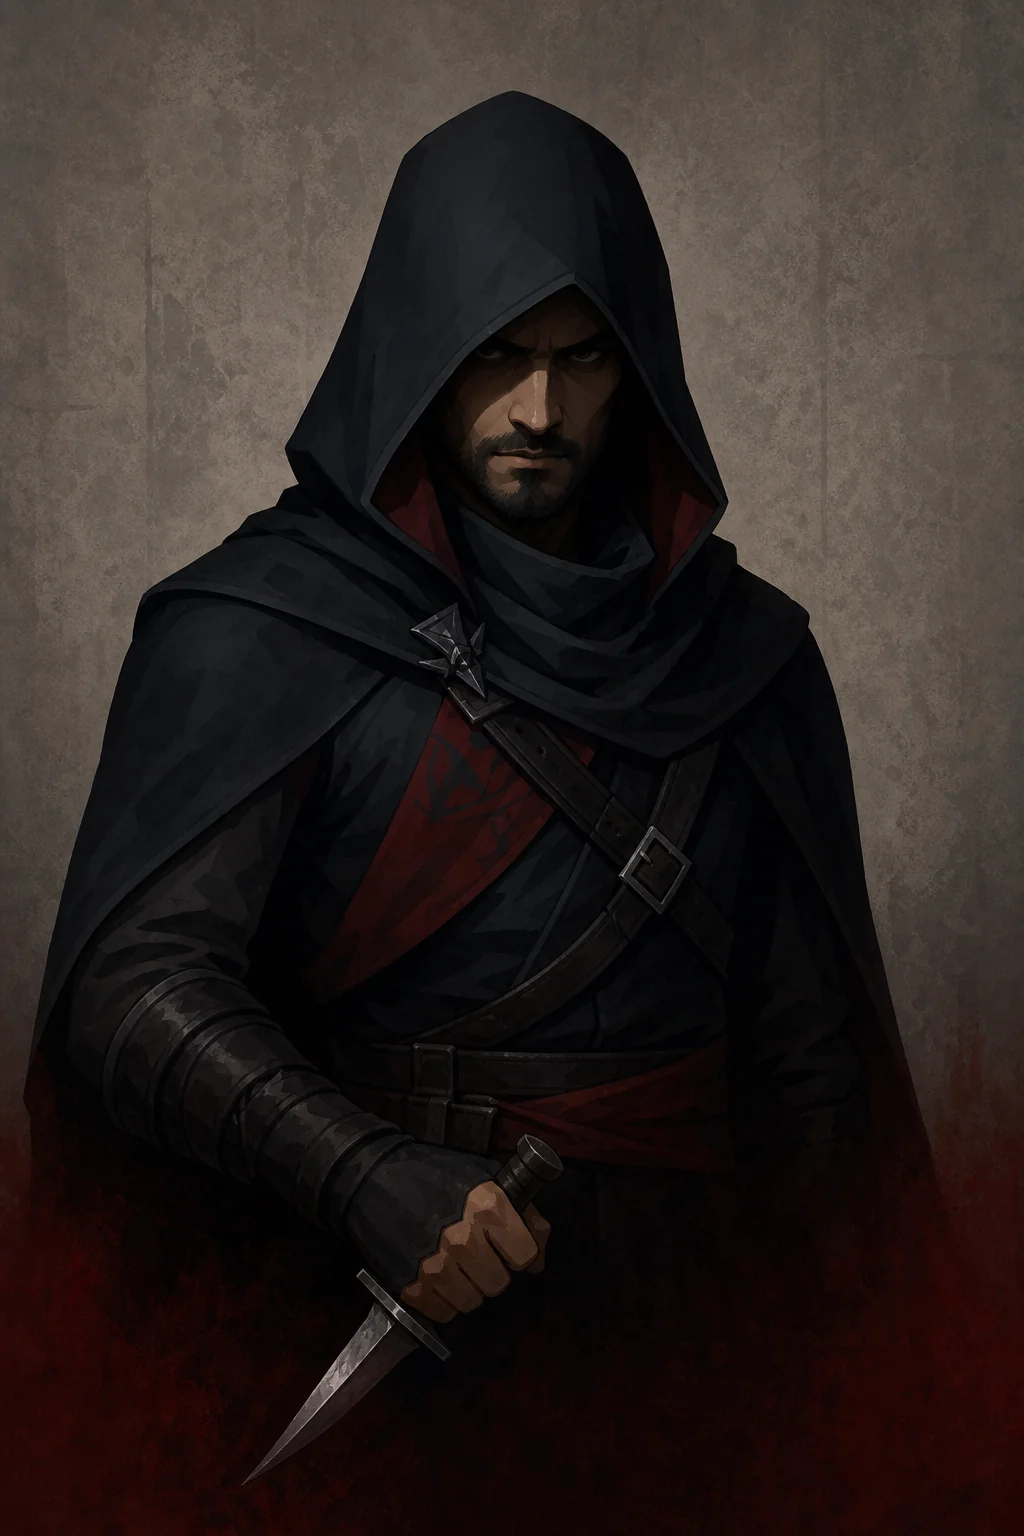
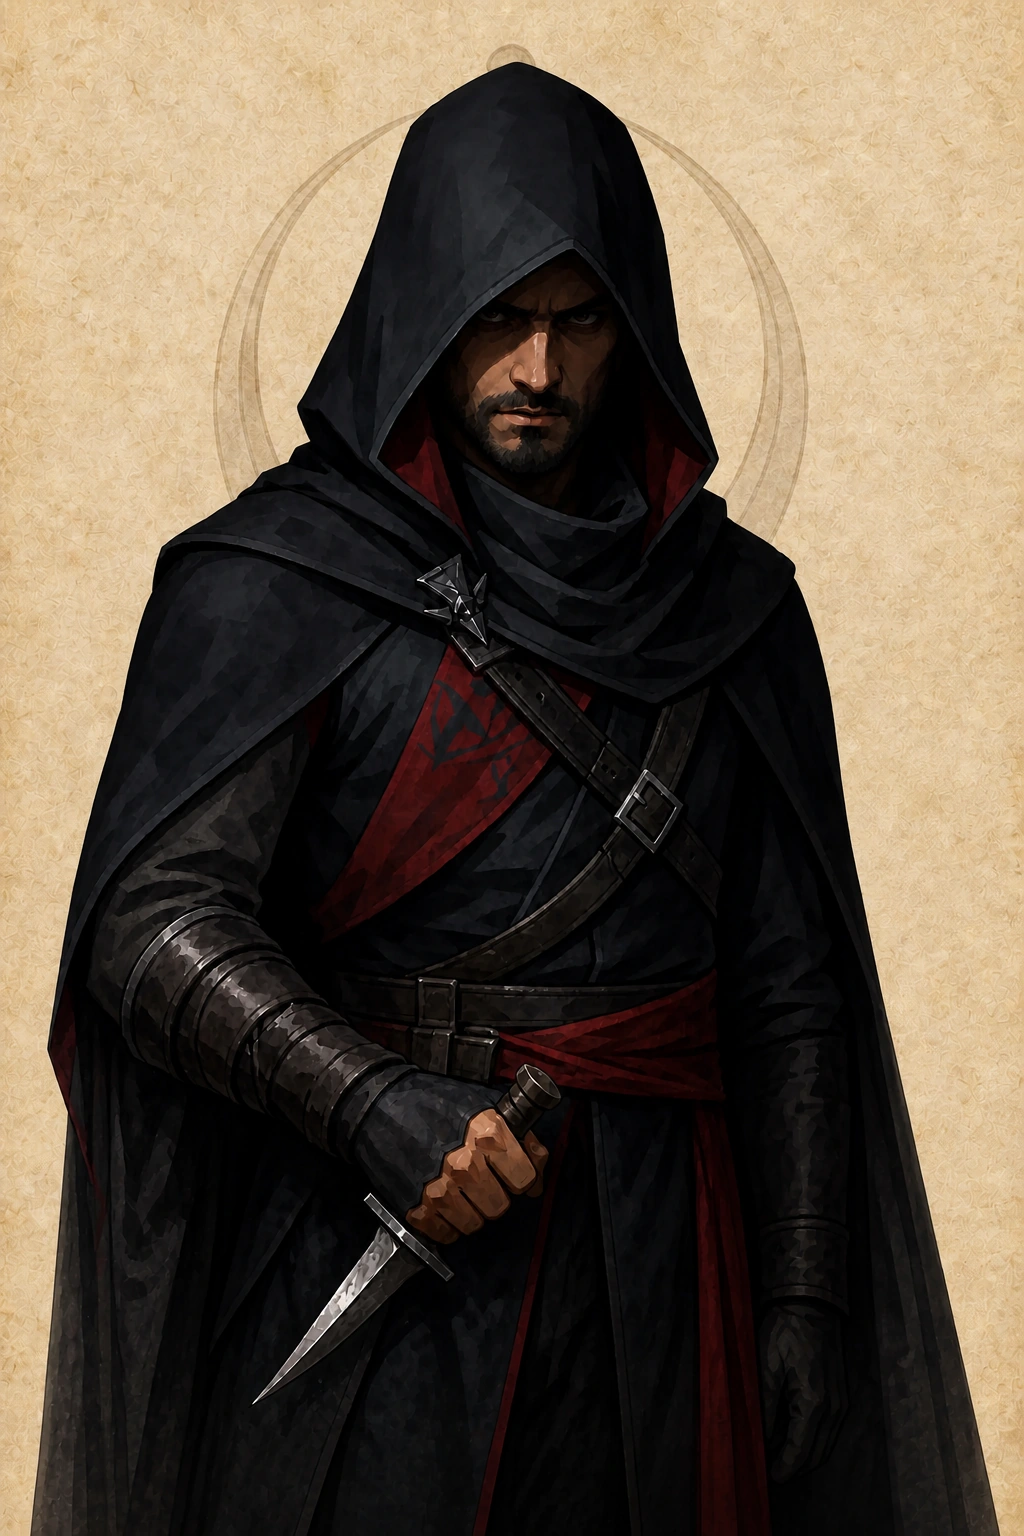
fix: refresh classic and dark Avalon role skins

diff --git a/frontend/src/gameRoleSkins.test.ts b/frontend/src/gameRoleSkins.test.ts
@@ -18,9 +18,10 @@ describe('Avalon role skin artwork framing', () => {
   beforeEach(() => localStorage.clear())
 
   it('keeps curated thumbnail framing for consistent character scale', () => {
-    expect(roleArtworkFraming('merlin', 'classic-tabletop')).toMatchObject({
-      scale: 1.1,
-      originYPercent: 36,
+    expect(roleArtworkFraming('merlin', 'classic-tabletop')).toEqual({
+      scale: 1,
+      originXPercent: 50,
+      originYPercent: 50,
     })
     expect(roleArtworkFraming('percival', 'stained-glass')).toMatchObject({
       scale: 1.09,

diff --git a/frontend/src/gameRoleSkins.ts b/frontend/src/gameRoleSkins.ts
@@ -216,9 +216,6 @@ const DEFAULT_ROLE_ARTWORK_FRAMING: RoleArtworkFraming = {
 const ROLE_ARTWORK_FRAMING: Partial<
   Record<RoleSkinId, Partial<Record<AvalonRoleCode, RoleArtworkFraming>>>
 > = {
-  'classic-tabletop': {
-    merlin: { scale: 1.1, originXPercent: 50, originYPercent: 36 },
-  },
   'stained-glass': {
     percival: {
       scale: 1.09,

diff --git a/frontend/src/assets/avalon/role-skins/README.md b/frontend/src/assets/avalon/role-skins/README.md
@@ -30,9 +30,10 @@ art and an independent selected style while sharing Loyal Servant unlocks.
 
 The two skins below were created with the built-in image generation tool.
 All portraits use a vertical 2:3 composition, one centered waist-up character,
-safe margins, and a darker lower third for the in-game text overlay. They must
-not contain written text, letters, numbers, logos, watermarks, card frames, or
-modern clothing.
+and consistent character scale. Artwork must continue cleanly through the
+bottom edge without a darkened lower third, fade, footer, border, or blank band.
+It must not contain written text, letters, numbers, logos, watermarks, card
+frames, or modern clothing.
 
 ### `classic-tabletop`
 
